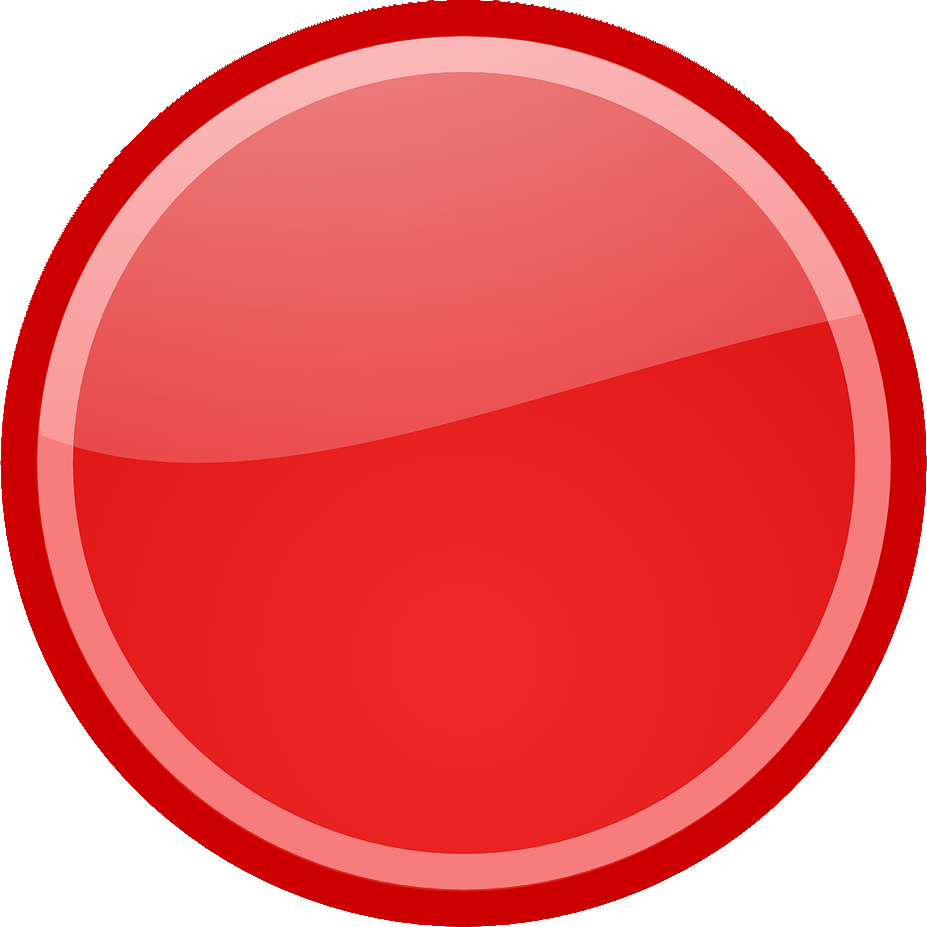
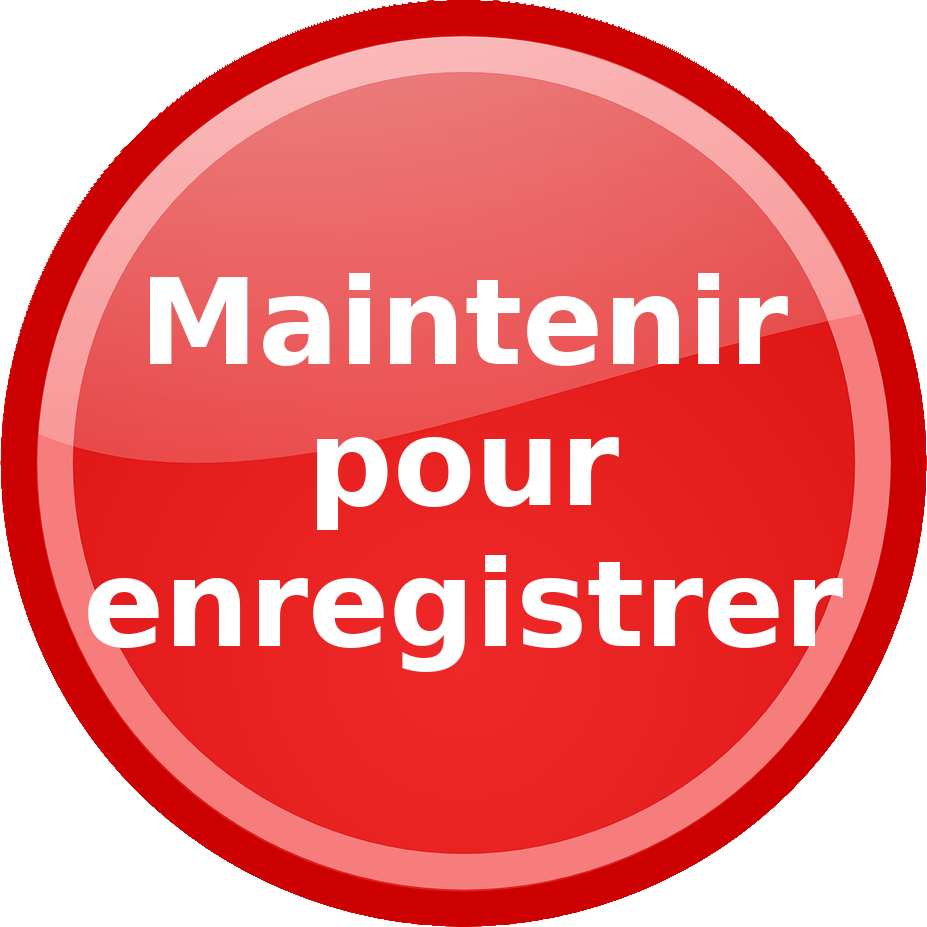
Make it more obvious that the user needs to hold the red button

Changed region(s): [[0.0906, 0.5739, 0.9061, 0.7249], [0.151, 0.2718, 0.8457, 0.3927], [0.3323, 0.4531, 0.6645, 0.5739]]

diff --git a/MainWidget.py b/MainWidget.py
@@ -8,7 +8,7 @@ Creation date: 2018-05-22
 Reference for style conventions : https://www.python.org/dev/peps/pep-0008
 """
 
-from PyQt5.QtCore import QTimer, pyqtSlot, pyqtSignal
+from PyQt5.QtCore import QTimer, pyqtSlot
 from PyQt5.QtWidgets import QWidget, QVBoxLayout, QHBoxLayout, QLabel
 
 from Config import Config
@@ -60,6 +60,12 @@ class MainWidget(QWidget):
 
         # Create message display widget
         self.notif_zone = MessageDisplay()
+        self.notif_zone.setStyleSheet("""
+            QLabel {
+                font-size: 24px;
+                color: #ff0000;
+            }
+        """)
         self.sound_recorder.player_recorder.recorded_too_short.connect(self.recorded_too_short_action)
 
         # Create Layouts
